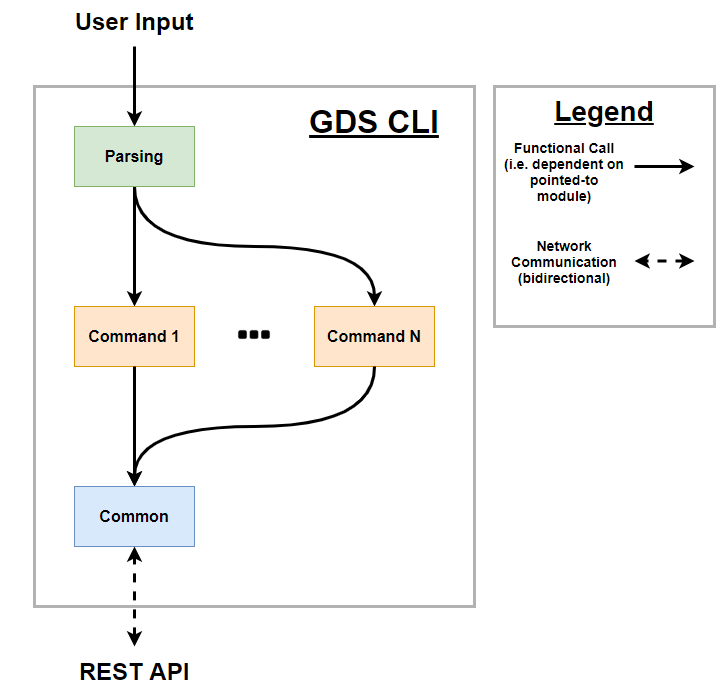
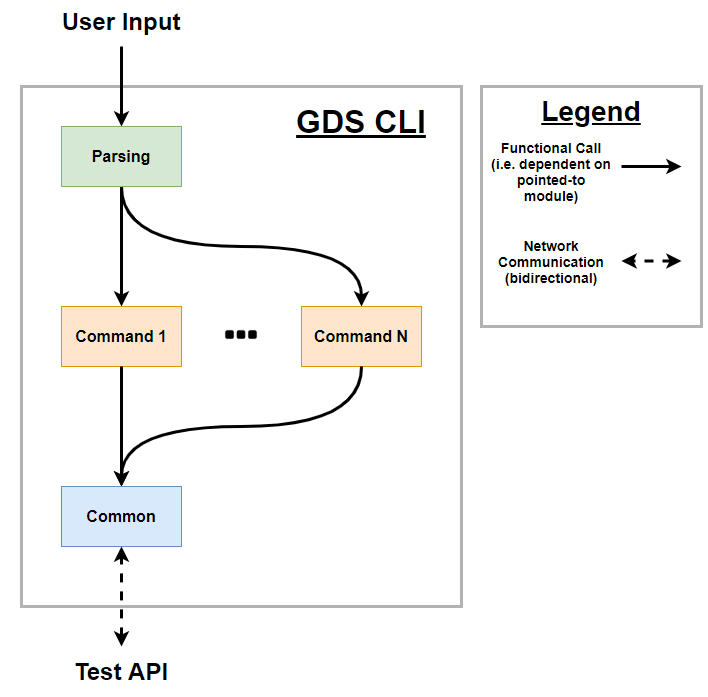
Updated GDS CLI doc diagrams

diff --git a/Gds/docs/GDS_CLI_DEV_GUIDE.md b/Gds/docs/GDS_CLI_DEV_GUIDE.md
@@ -2,6 +2,21 @@
 
 This guide is for programmers who intend to maintain and develop code for the Ground Data System's command-line interface suite. For regular users who just want to use these CLI tools, please see the [user guide](../../docs/gds/GDS_CLI_USER_GUIDE.md).
 
+- [CLI Requirements](#cli-requirements)
+    - [Primary Requirements](#primary-requirements)
+    - [Secondary Requirements](#secondary-requirements)
+- [Architecture](#architecture)
+    - [Intended](#intended)
+    - [As Implemented](#as-implemented)
+    - [Dataflow](#dataflow)
+    - [Dependencies](#dependencies)
+    - [Source Files](#source-files)
+- [Tests](#tests)
+- [Code Quirks](#code-quirks)
+- [Future Work](#future-work)
+    - [Fixing Issues](#fixing-issues)
+    - [New Features](#new-features)
+
 ## CLI Requirements
 
 ### Primary Requirements
@@ -39,19 +54,19 @@ The CLI will interact with the GDS through an appropriate API, which the CLI mod
 
 ### As Implemented
 
-In full (generated using [pydeps](https://pydeps.readthedocs.io/en/latest/)):
-
-![](overall_dependencies.svg)
-
-When cut down to not include imports used only for type hints, or dependencies for modules not part of the GDS CLI source code:
+Not including imports used only for type hints, or dependencies for modules not part of the GDS CLI source code (generated using [pydeps](https://pydeps.readthedocs.io/en/latest/):
 
 ![](overall_dependencies_edited.png)
 
-*Note that the above graphs have arrows pointing **to** the module that does the importing and away from the dependency, and do not include Python standard library imports*
+*Note that the above graph has arrows pointing **to** the module that does the importing and away from the dependency, and does not include Python standard library imports*
 
 -   All parsing is handled in `fprime_cli`, which imports the command modules and several external libraries to help with parsing.
 -   Each command is implemented separately, but shares a large portion of its code with other modules via the `Common` module files, as well as importing the appropriate GDS data type for the type of data it's working with (and, in the case of `command_send`, an appropriate exception).
 -   The `Common` module is actually made up of several distinct, independent submodules containing related groups of common code . These import a variety of other GDS modules to help provide all necessary functionality; in particular, the `testing_fw.api` Integration Test module is used to access the GDS.
+
+### Dataflow
+
+![](cli_data_flow.svg)
 
 ### Dependencies
 
